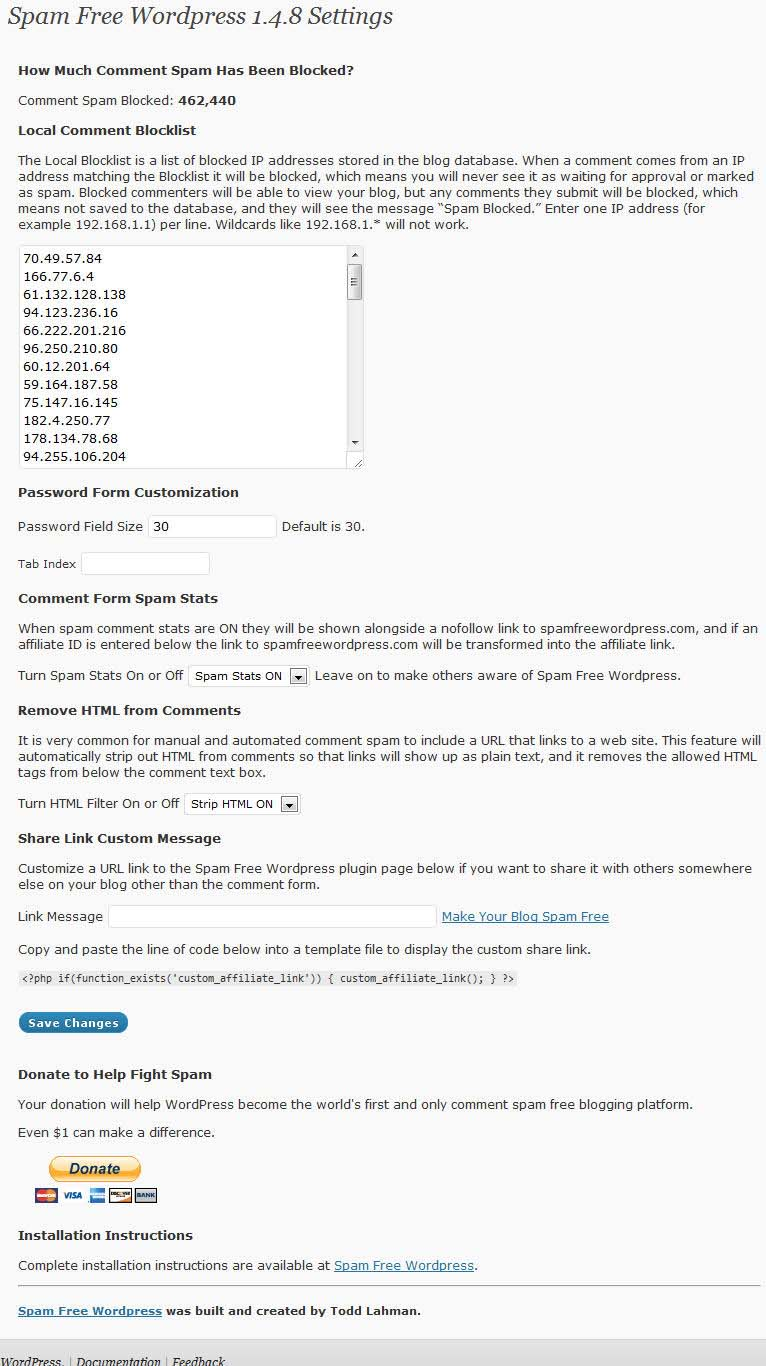
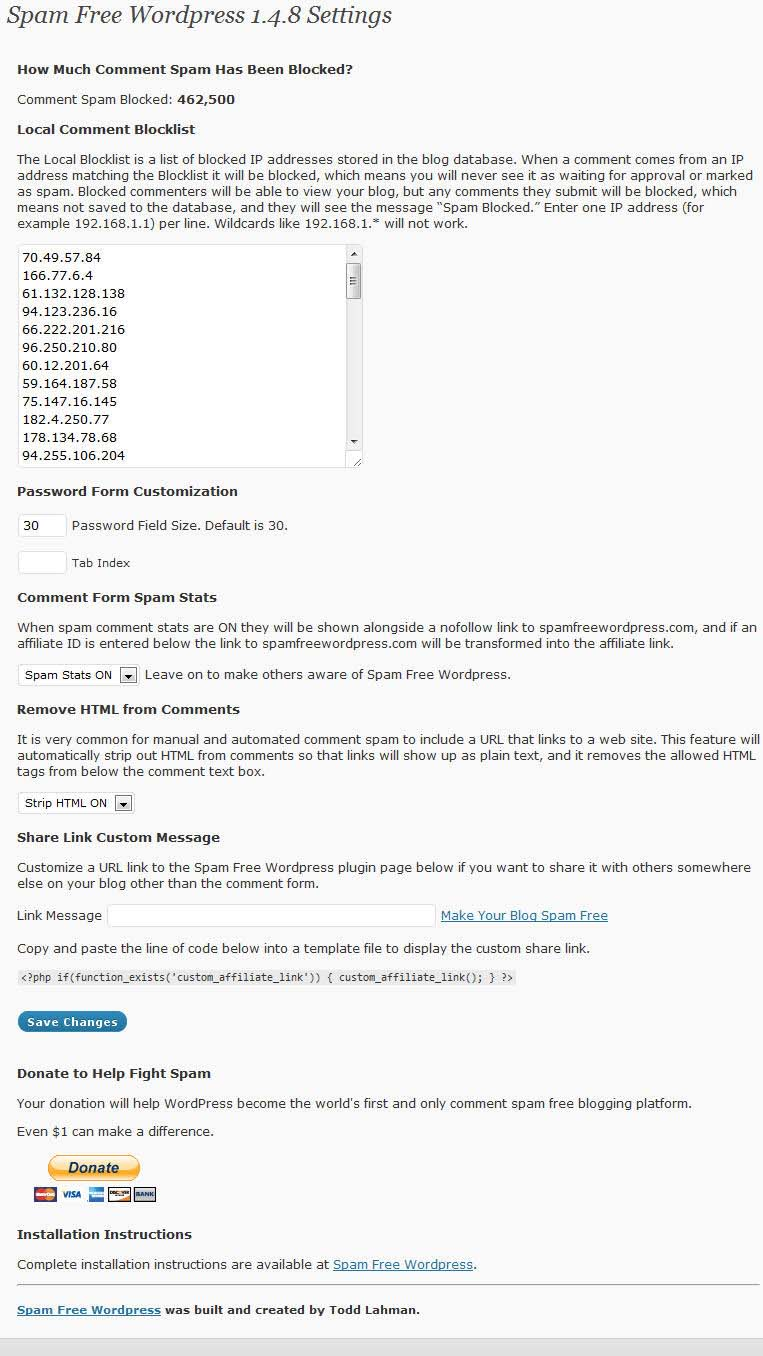
Changes to readme.txt
git-svn-id: https://plugins.svn.wordpress.org/spam-free-wordpress/trunk@401992 b8457f37-d9ea-0310-8a92-e5e31aec5664

Changed region(s): [[0.0, 0.0, 0.9948, 1.0]]

diff --git a/tl-spam-free-wordpress.php b/tl-spam-free-wordpress.php
@@ -339,15 +339,15 @@ function spam_free_wordpress_options_page() {
 				
 			<h3>Password Form Customization</h3>
 				<fieldset>
-					<label><p>Password Field Size <input type="text" name="wp_sfw_options[pw_field_size]" value="<?php echo $wp_sfw_options['pw_field_size']; ?>" /> Default is 30.</label>
+					<label><p><input type="text" name="wp_sfw_options[pw_field_size]" size="4" value="<?php echo $wp_sfw_options['pw_field_size']; ?>" /> Password Field Size. Default is 30.</label>
 				</fieldset>
 				<fieldset>
-					<label>Tab Index </font><input type="text" name="wp_sfw_options[tab_index]" value="<?php echo $wp_sfw_options['tab_index']; ?>" /></p></label>
+					<label><input type="text" name="wp_sfw_options[tab_index]" size="4" value="<?php echo $wp_sfw_options['tab_index']; ?>" /> Tab Index </p></label>
 				</fieldset>
 				
 			<h3>Comment Form Spam Stats</h3>
 			<p>When spam comment stats are ON they will be shown alongside a nofollow link to spamfreewordpress.com, and if an affiliate ID is entered below the link to spamfreewordpress.com will be transformed into the affiliate link.</p>
-				<label><p>Turn Spam Stats On or Off
+				<label><p>
 					<select name="wp_sfw_options[toggle_stats_update]" class="toggle_stats">
 						<option value="disable" <?php selected( 'disable', $wp_sfw_options['toggle_stats_update'] ); ?> ><?php _e( 'Spam Stats OFF' ) ?></option>
 						<option value="enable" <?php selected( 'enable', $wp_sfw_options['toggle_stats_update'] ); ?> ><?php _e( 'Spam Stats ON' ) ?></option>
@@ -356,7 +356,7 @@ function spam_free_wordpress_options_page() {
 				
 			<h3>Remove HTML from Comments</h3>
 			<p>It is very common for manual and automated comment spam to include a URL that links to a web site. This feature will automatically strip out HTML from comments so that links will show up as plain text, and it removes the allowed HTML tags from below the comment text box.</p>
-				<label><p>Turn HTML Filter On or Off
+				<label><p>
 					<select name="wp_sfw_options[toggle_html]" class="toggle_html">
 						<option value="disable" <?php selected( 'disable', $wp_sfw_options['toggle_html'] ); ?> ><?php _e( 'Strip HTML OFF' ) ?></option>
 						<option value="enable" <?php selected( 'enable', $wp_sfw_options['toggle_html'] ); ?> ><?php _e( 'Strip HTML ON' ) ?></option>
